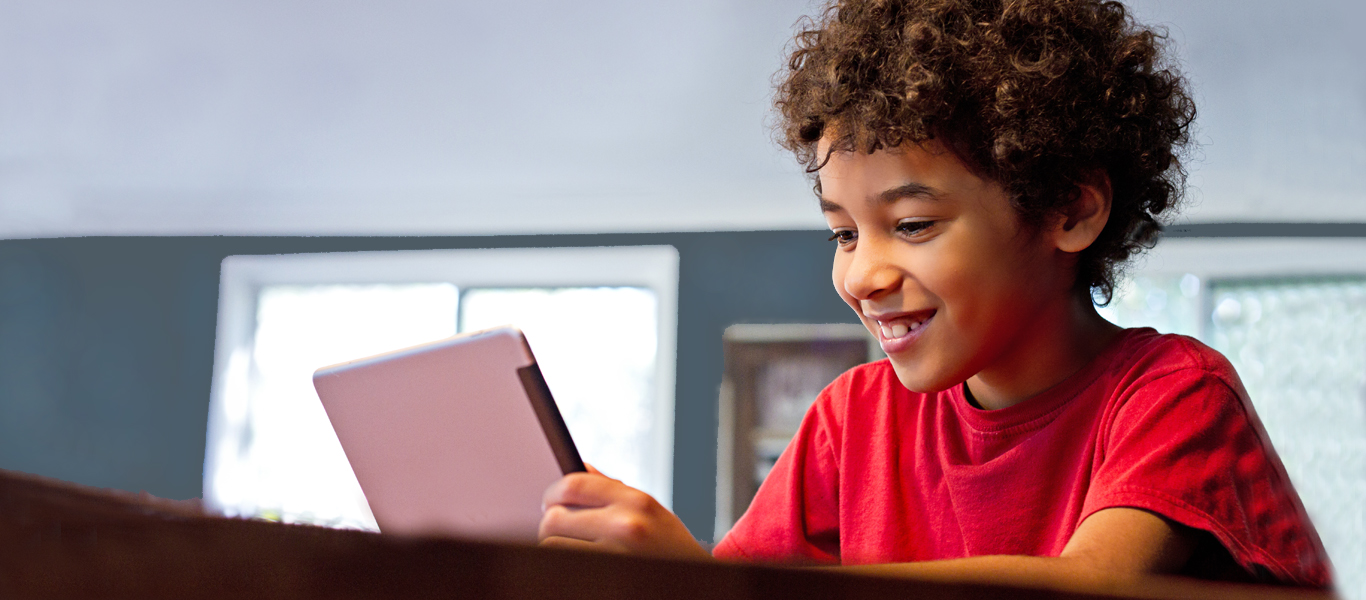
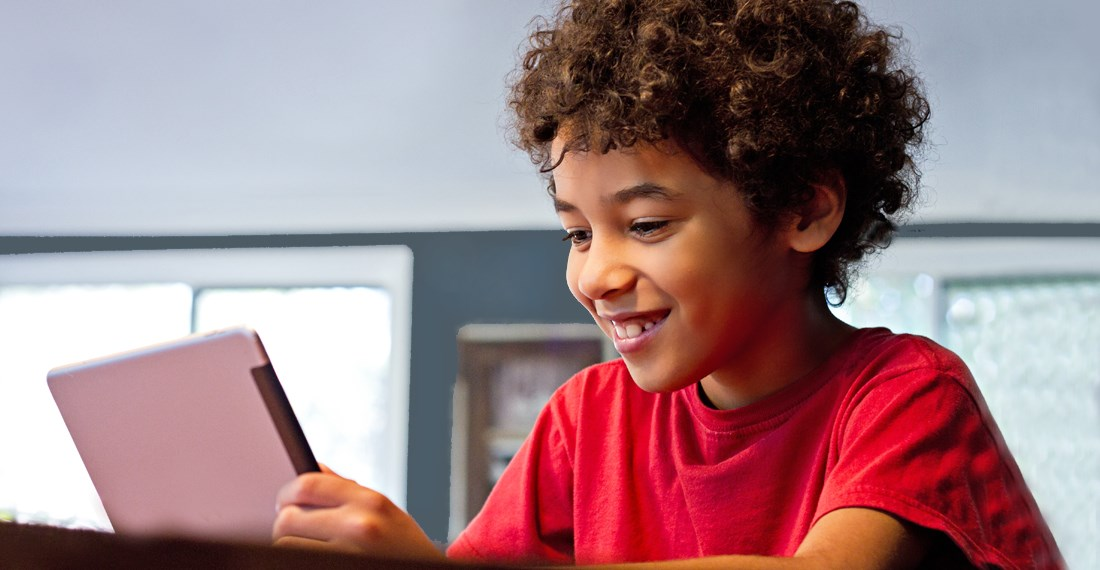
tidy up landing design

diff --git a/source/bat/assets/css/creative-mod.css b/source/bat/assets/css/creative-mod.css
@@ -13,17 +13,17 @@
 }
 
 header {
-    background: linear-gradient(#111, rgba(1, 1, 1, 0.1)), url('../img/landing/1.jpg') no-repeat center #eee;
+    background: linear-gradient(rgba(0, 0, 0, 0.7), rgba(0, 0, 0, 0.2)), url('../img/landing/1.jpg') no-repeat center #eee;
+    -ms-background-size:cover;
     background-size:cover;
 }
 
 #lessons {
-    background-image: url('../img/landing/3.jpg');
-    background-repeat: no-repeat;
-    background-size: cover;
-    background-position: center;  
-    padding-top: 125px;
-    padding-bottom: 150px;
+    background: linear-gradient(rgba(0, 0, 0, 0.2), rgba(0, 0, 0, 0.3), rgba(0, 0, 0, 0.2)), url('../img/landing/3.jpg') no-repeat center #eee;
+    -ms-background-size:cover;
+    background-size:cover;
+    padding-top: 175px;
+    padding-bottom: 250px;
 }
 
 #tutors{
@@ -34,7 +34,8 @@ header {
 #sign-up {
     background-image: url('../img/landing/2.jpg');
     background-repeat: no-repeat;
-    background-size: cover;
+    -ms-background-size:cover;
+    background-size:cover;
     background-position: center;
 }
 

diff --git a/source/bat/assets/css/creative.css b/source/bat/assets/css/creative.css
@@ -194,7 +194,7 @@ header .header-content .header-content-inner p {
     padding: 0 50px;
   }
   header .header-content .header-content-inner {
-    max-width: 1000px;
+    /*max-width: 1000px;*/
     margin-left: auto;
     margin-right: auto;
   }
